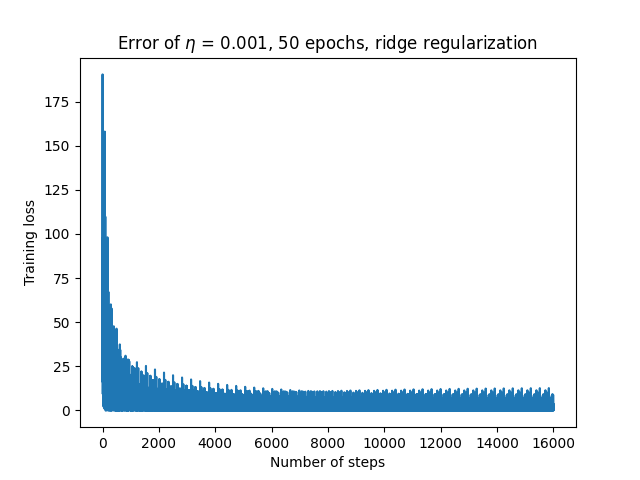
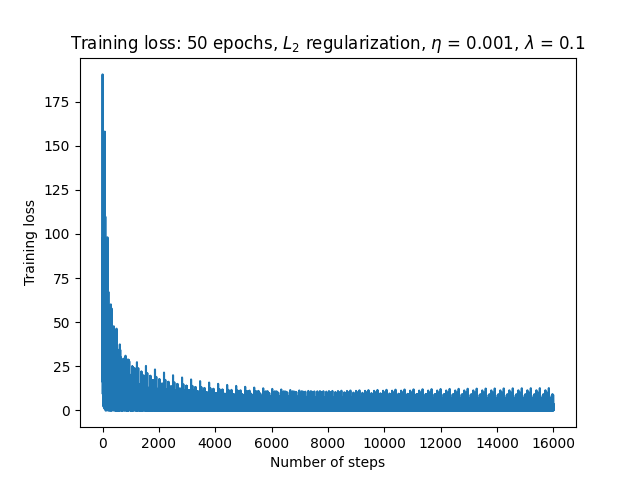
updated plotting and testing data prediction

Changed region(s): [[0.0938, 0.0625, 0.8438, 0.125], [0.875, 0.0625, 0.9062, 0.125]]

diff --git a/hw2/LinearRegression.py b/hw2/LinearRegression.py
@@ -46,7 +46,7 @@ class LinearRegression:
         self.eta = learn_rate
         self.w = np.zeros(num_feature, dtype=np.float64)
         self.b = 0.0
-        self.reg_type = reg_type if reg_type is not None else "no"
+        self.reg_type = reg_type
         self.lambda_ = reg
         self.epoch = 1
         self.X = None
@@ -69,12 +69,12 @@ class LinearRegression:
         return np.array(res).T
 
     def reg(self):
-        if self.reg_type == "no":
-            return 0
-        elif self.reg_type == "ridge":
+        if self.reg_type == "Ridge":
             return 2 * self.eta * self.lambda_ * self.w
-        elif self.reg_type == "lasso":
+        elif self.reg_type == "Lasso":
             return self.eta * self.lambda_ * np.sign(self.w)
+        else:
+            return 0
 
     def fit(self, X, y, epoch=1):
         self.epoch = epoch
@@ -95,11 +95,20 @@ class LinearRegression:
 
     def plot_loss(self, path):
         plt.figure()
-        x = [i + 1 for i in range(len(self.loss))]
-        plt.plot(x, self.loss)
+        steps = [i + 1 for i in range(len(self.loss))]
+        plt.plot(steps, self.loss)
         plt.xlabel("Number of steps")
         plt.ylabel("Training loss")
-        plt.title("Error of $\eta$ = {}, {} epochs, {} regularization".format(self.eta, self.epoch, self.reg_type))
+        if self.reg_type == "Ridge":
+            reg_type = "$L_2$"
+        elif self.reg_type == "Lasso":
+            reg_type = "$L_1$"
+        else:
+            reg_type = "no"
+        title = "Training loss: {} epochs, {} regularization, $\eta$ = {}".format(self.epoch, reg_type, self.eta)
+        if self.reg_type is not None:
+            title += ", $\lambda$ = {}".format(self.lambda_)
+        plt.title(title)
         plt.savefig(path)
 
 
@@ -111,16 +120,24 @@ if __name__ == "__main__":
 
     LR = LinearRegression(12, 0.01)
     LR.fit(X_train, y_train, epoch=50)
+    # print(LR.w)
+    print(compute_error(LR.predict(X_test), y_test))
     LR.plot_loss("result/1.png")
 
     LR = LinearRegression(12, 0.001)
     LR.fit(X_train, y_train, epoch=50)
+    # print(LR.w)
+    print(compute_error(LR.predict(X_test), y_test))
     LR.plot_loss("result/2.png")
 
-    LR = LinearRegression(12, 0.001, reg_type="ridge", reg=0.1)
+    LR = LinearRegression(12, 0.001, reg_type="Ridge", reg=0.1)
     LR.fit(X_train, y_train, epoch=50)
+    # print(LR.w)
+    print(compute_error(LR.predict(X_test), y_test))
     LR.plot_loss("result/3.png")
 
-    LR = LinearRegression(12, 0.001, reg_type="lasso", reg=0.1)
+    LR = LinearRegression(12, 0.001, reg_type="Lasso", reg=0.1)
     LR.fit(X_train, y_train, epoch=50)
+    # print(LR.w)
+    print(compute_error(LR.predict(X_test), y_test))
     LR.plot_loss("result/4.png")
